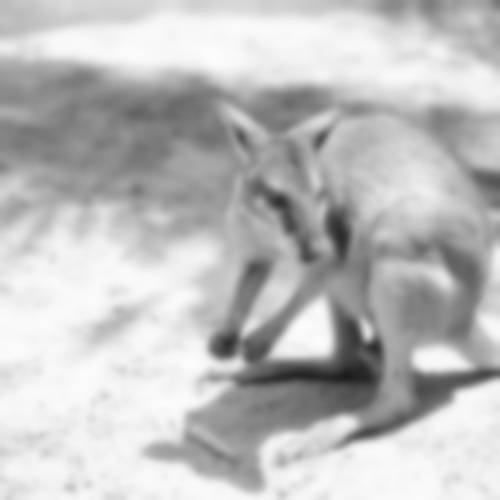
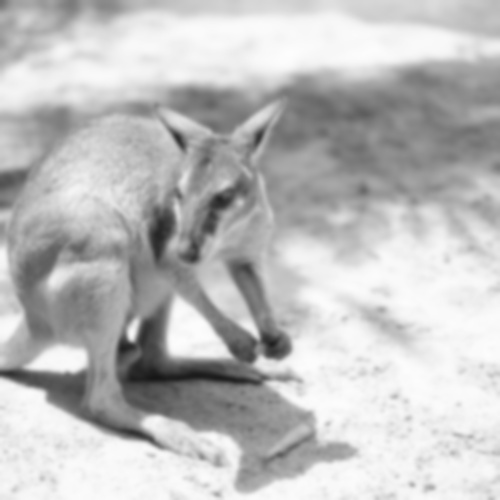
s

diff --git a/Tutorial Opencv/#2/main.py b/Tutorial Opencv/#2/main.py
@@ -1,14 +1,14 @@
-import cv2, os
-__path__ = __file__[0:len(__file__)-len(os.path.basename(__file__))]
+import cv2
 
-
-img = cv2.imread(__path__ + 'kangguru.jpg')
+img = cv2.imread('kangguru.jpg')
 img = cv2.resize(img, (500, 500))
-gray = cv2.cvtColor(img, cv2.COLOR_BGR2GRAY)
-blur = cv2.GaussianBlur(img, (51, 51), 0)
+img = cv2.flip(img, 1)
+img = cv2.GaussianBlur(img, (11, 11), 0)
 
-cv2.imshow('Image', img)
-cv2.imshow('Gray', gray)
-cv2.imshow('Blur', blur)
+gray = cv2.cvtColor(img, cv2.COLOR_BGR2GRAY)
+cv2.imshow('image', img)
+cv2.imshow('gray', gray)
+
+cv2.imwrite('tes.jpg', gray)
 
 cv2.waitKey(0)
